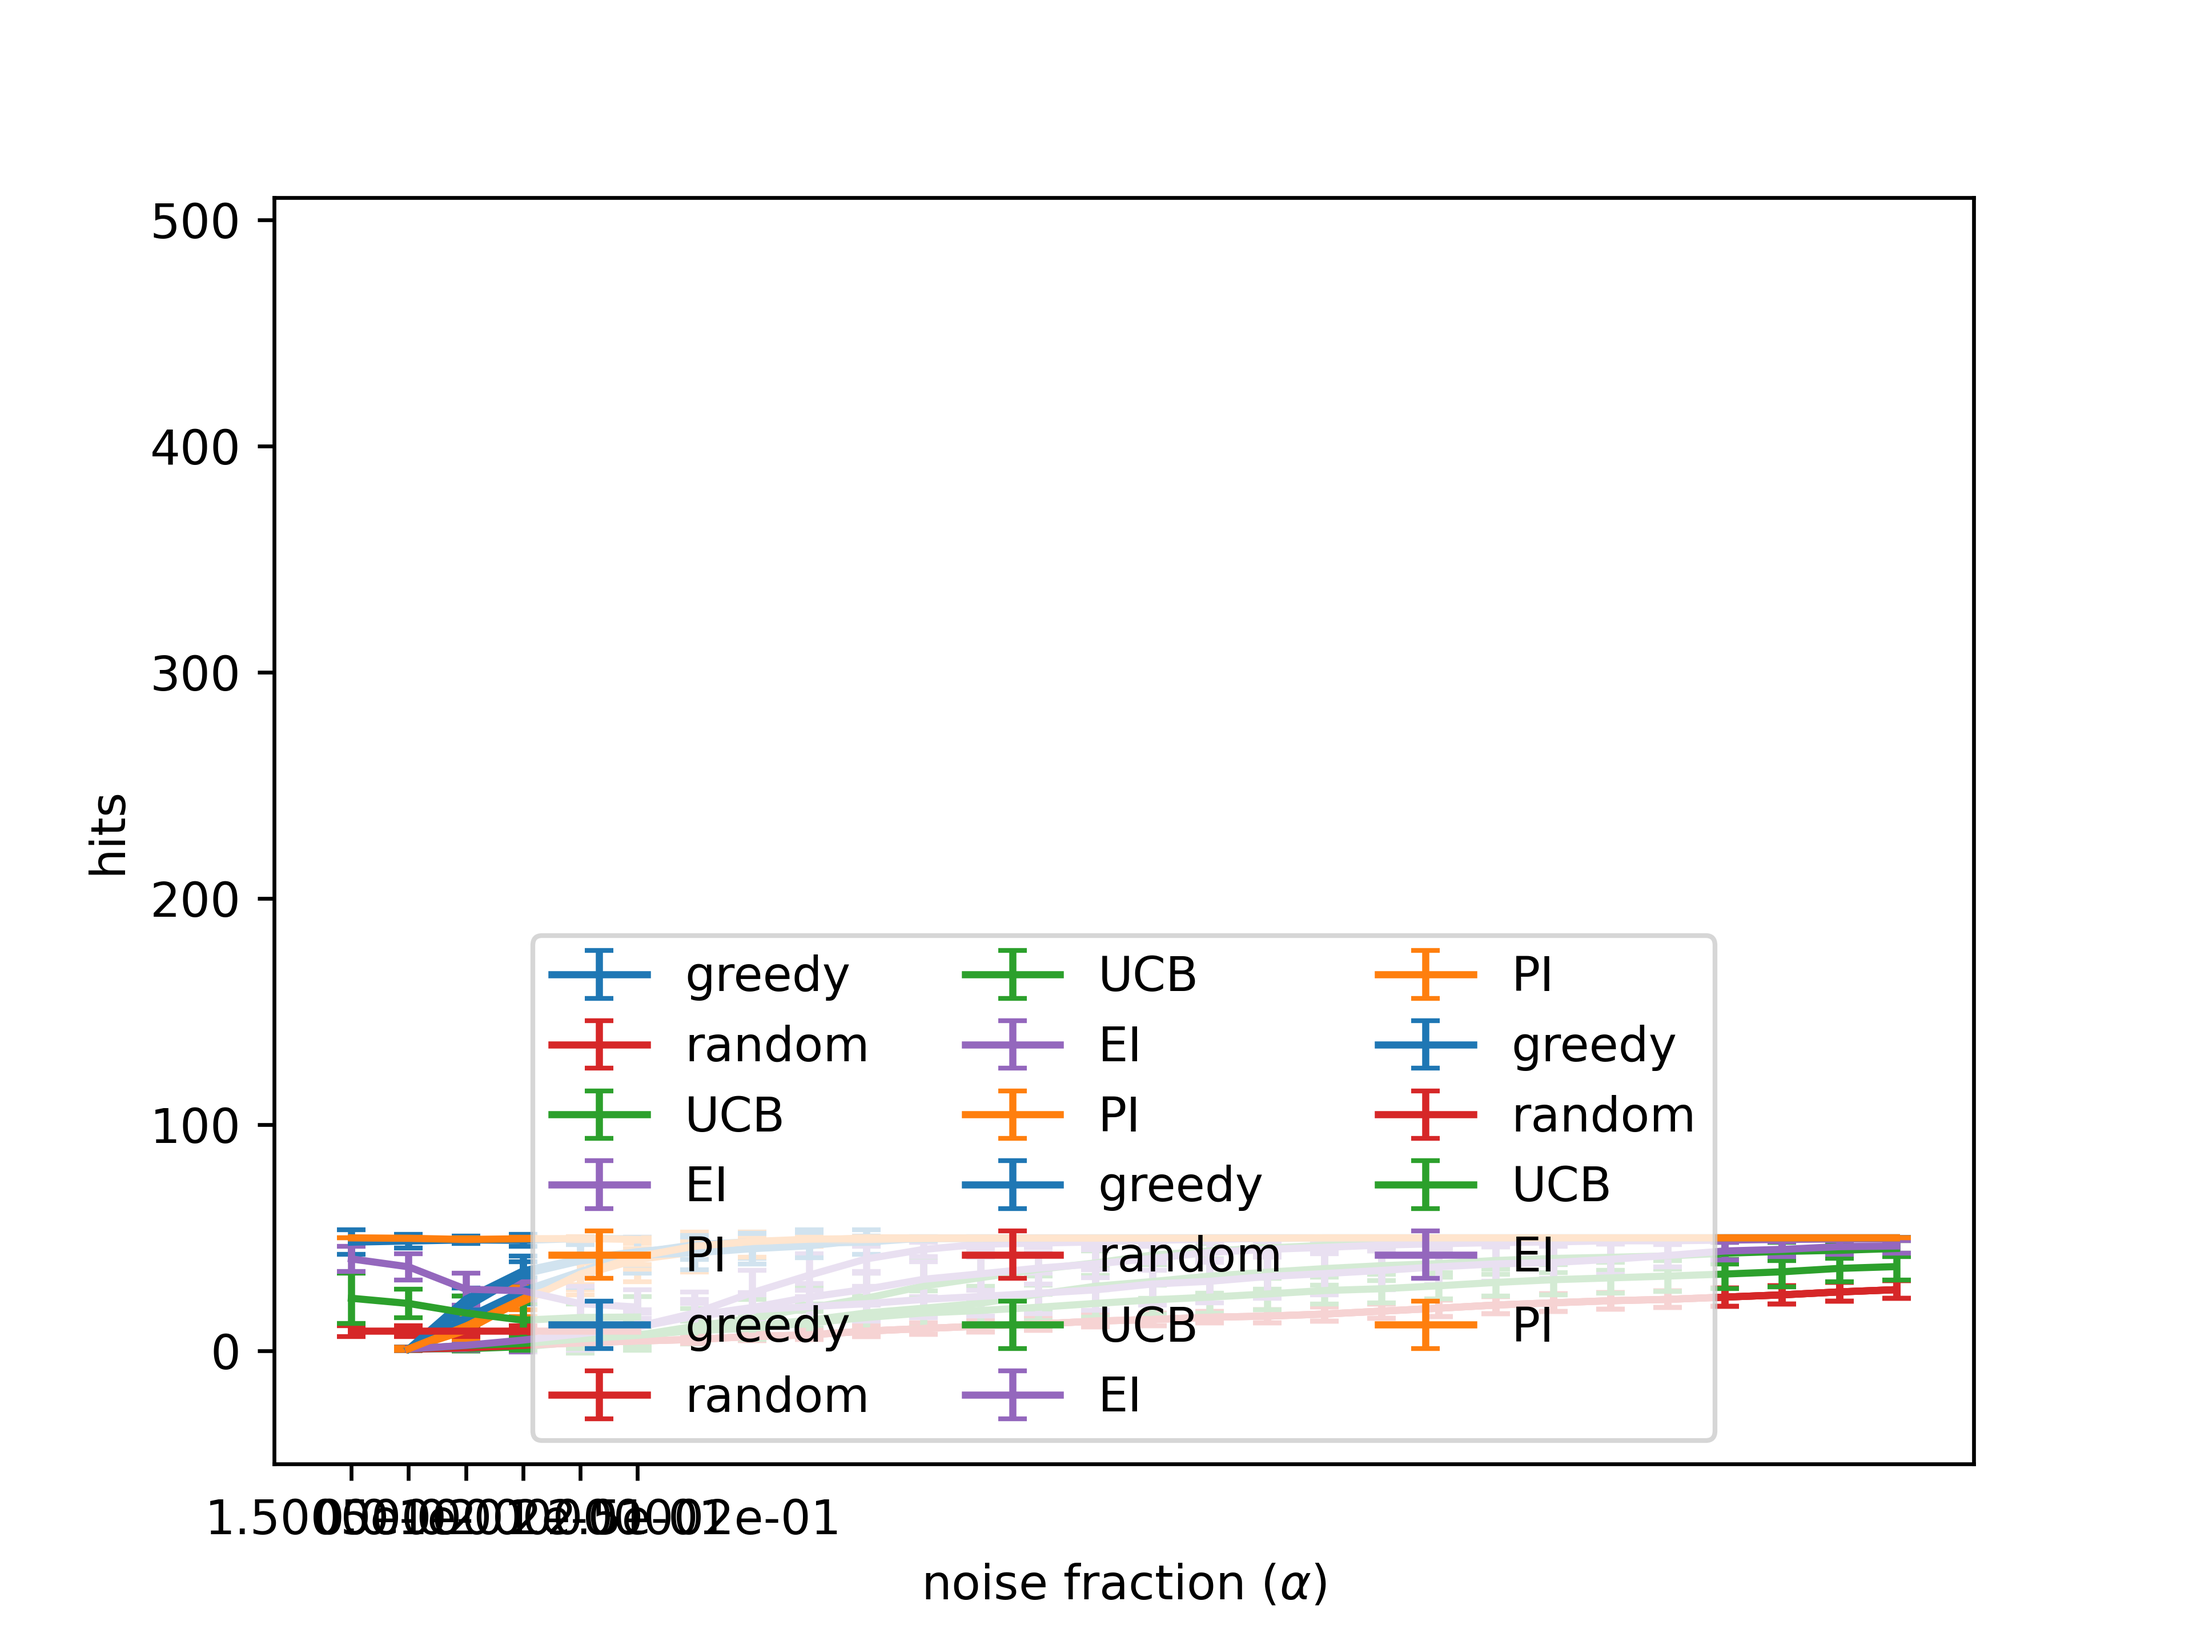
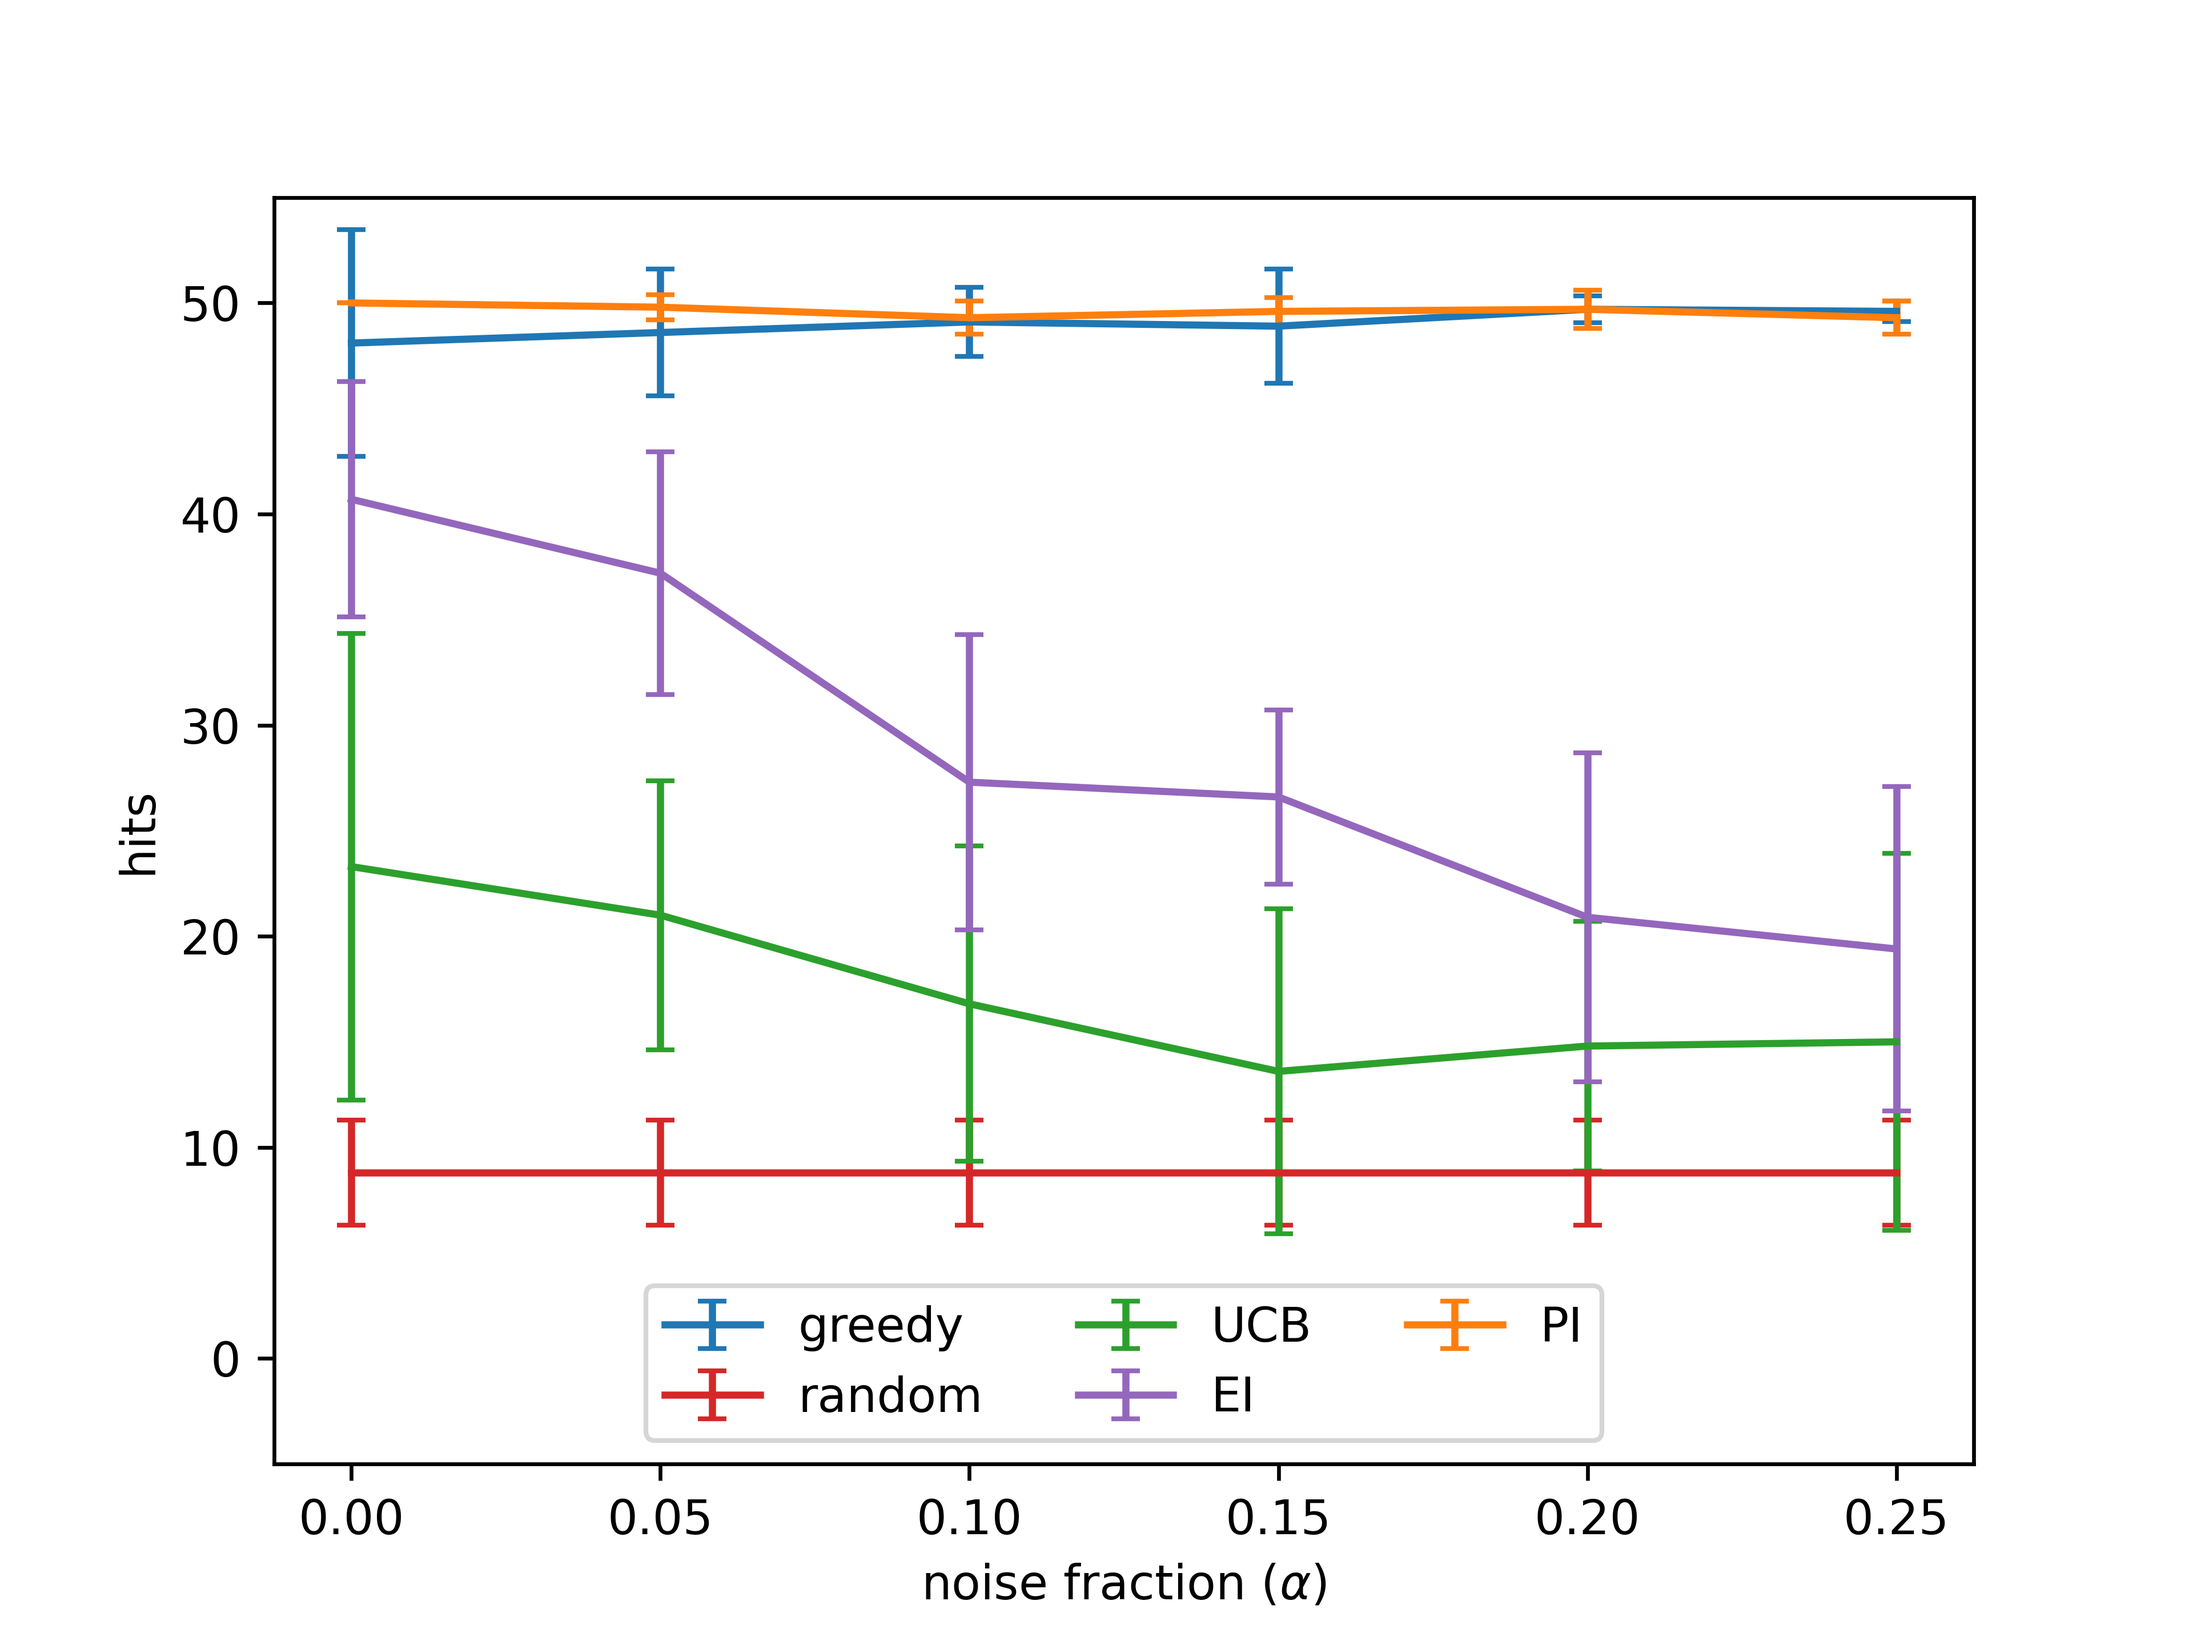
figures version 2

diff --git a/simulated_data_results.py b/simulated_data_results.py
@@ -50,6 +50,7 @@ def figure2():
     colors = ['tab:blue', 'tab:red', 'tab:green', 'tab:purple', 'tab:orange']
     colors = dict(zip(labels,colors))
     res = {}
+    x = np.linspace(0,0.25,6)
     index = 8
     for i in labels:
         res[i] = []
@@ -70,10 +71,10 @@ def figure2():
             res[k].append(enrich)
             
     for i in labels:
-        plt.errorbar(noise_levels, np.mean(res[i], axis=1), 
+        plt.errorbar(x, np.mean(res[i], axis=1), 
                      np.std(res[i], axis=1), label=i, capsize=3, color=colors[i])
     plt.legend(loc=8, ncol=3)
-    plt.ylim(-50,510)
+    plt.ylim(-5,55)
     plt.xlabel(r'noise fraction ($\alpha$)')
     plt.ylabel('hits')
     plt.savefig(f'figures/simulated{percent}%/fig2.png', dpi=600)
@@ -91,7 +92,7 @@ def figure3():
     res = {}
     res_t = {}
     index = 8
-    
+    x = np.linspace(0,0.25,6) 
     for i in labels2:
         res[i] = []
         res_t[i] = []
@@ -120,9 +121,9 @@ def figure3():
             
                 
     for i in labels2:
-        plt.errorbar(noise_levels, np.mean(res[i], axis=1), 
+        plt.errorbar(x, np.mean(res[i], axis=1), 
                      np.std(res[i], axis=1), label=i, capsize=3, color=c2[i])
-        plt.errorbar(noise_levels, np.mean(res_t[i], axis=1), 
+        plt.errorbar(x, np.mean(res_t[i], axis=1), 
                      np.std(res_t[i], axis=1), label=i+'(TH)', capsize=3, color=c3[i])
     plt.xlabel(r'noise fraction ($\alpha$)')
     plt.ylabel('hits/true hits')
@@ -161,11 +162,12 @@ def figure4():
         plt.show()
     
 
-def figure5(a):
+def figure5(a, L=8):
     # should be run with a=4 and a=8
     noise_levels = ['0.0', '5e-02', '1e-01', '1.5000000000000002e-01','2e-01', '2.5e-01']
     labels = ['greedy', 'PI']
     res_t = {}
+    x = np.linspace(0,0.25,6)
     res_retest = {}
     repeats = 10
     c2 = ['tab:blue', 'tab:orange']
@@ -195,18 +197,18 @@ def figure5(a):
             res_retest[k].append(enrich_retest)
     
     for i in labels:
-        plt.errorbar(noise_levels, np.mean(res_t[i], axis=1), 
+        plt.errorbar(x, np.mean(res_t[i], axis=1), 
                      np.std(res_t[i], axis=1), label=i, capsize=3, color=c2[i])
-        plt.errorbar(noise_levels, np.mean(res_retest[i], axis=1), 
+        plt.errorbar(x, np.mean(res_retest[i], axis=1), 
                      np.std(res_retest[i], axis=1), label=i+'(retests)', capsize=3, color=c3[i])
         
-    plt.legend(loc=8, ncol=2)
+    plt.legend(loc=L, ncol=2)
     plt.xlabel(r'noise fraction ($\alpha$)')
     plt.ylabel('true hits')
-    plt.ylim(200,510)
+    plt.ylim(24,54.5)
     plt.savefig(f'figures/simulated{percent}%/fig5'+str(a)+'.png', dpi=600)
     plt.show()
-
+"""
 if __name__=='__main__':
     figure1()
     figure2()
@@ -214,3 +216,4 @@ if __name__=='__main__':
     figure4()
     figure5(4)
     figure5(8)
+"""
